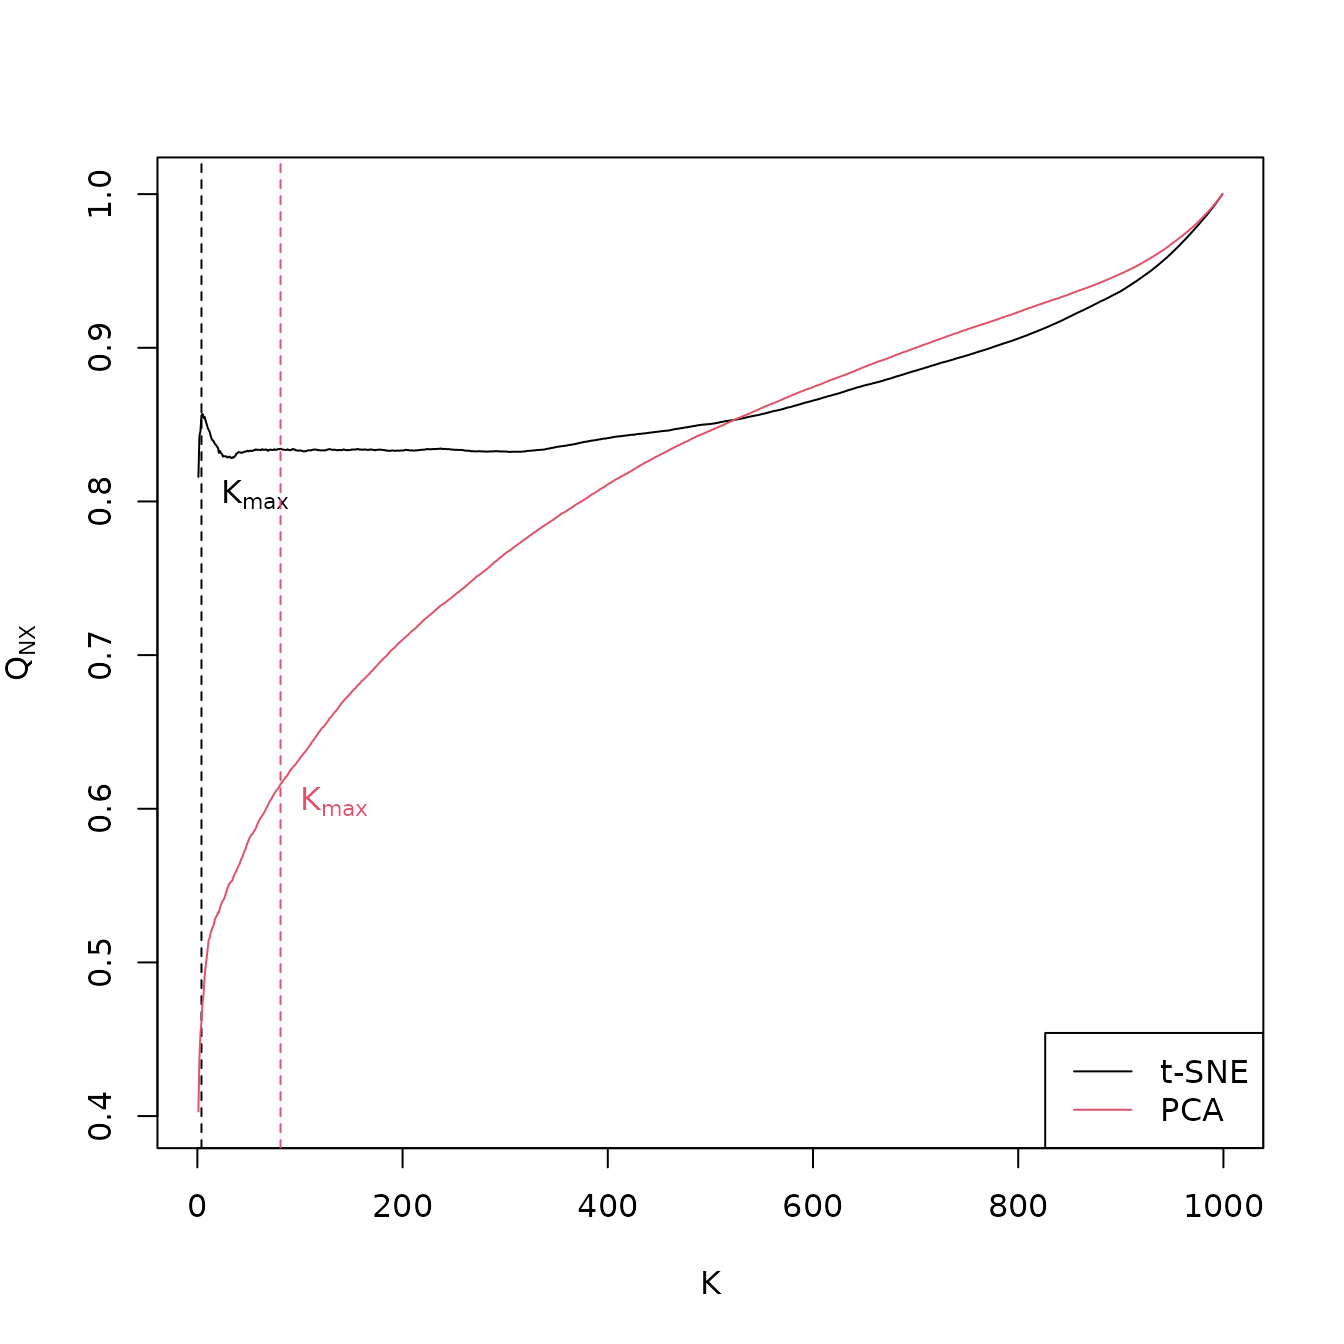
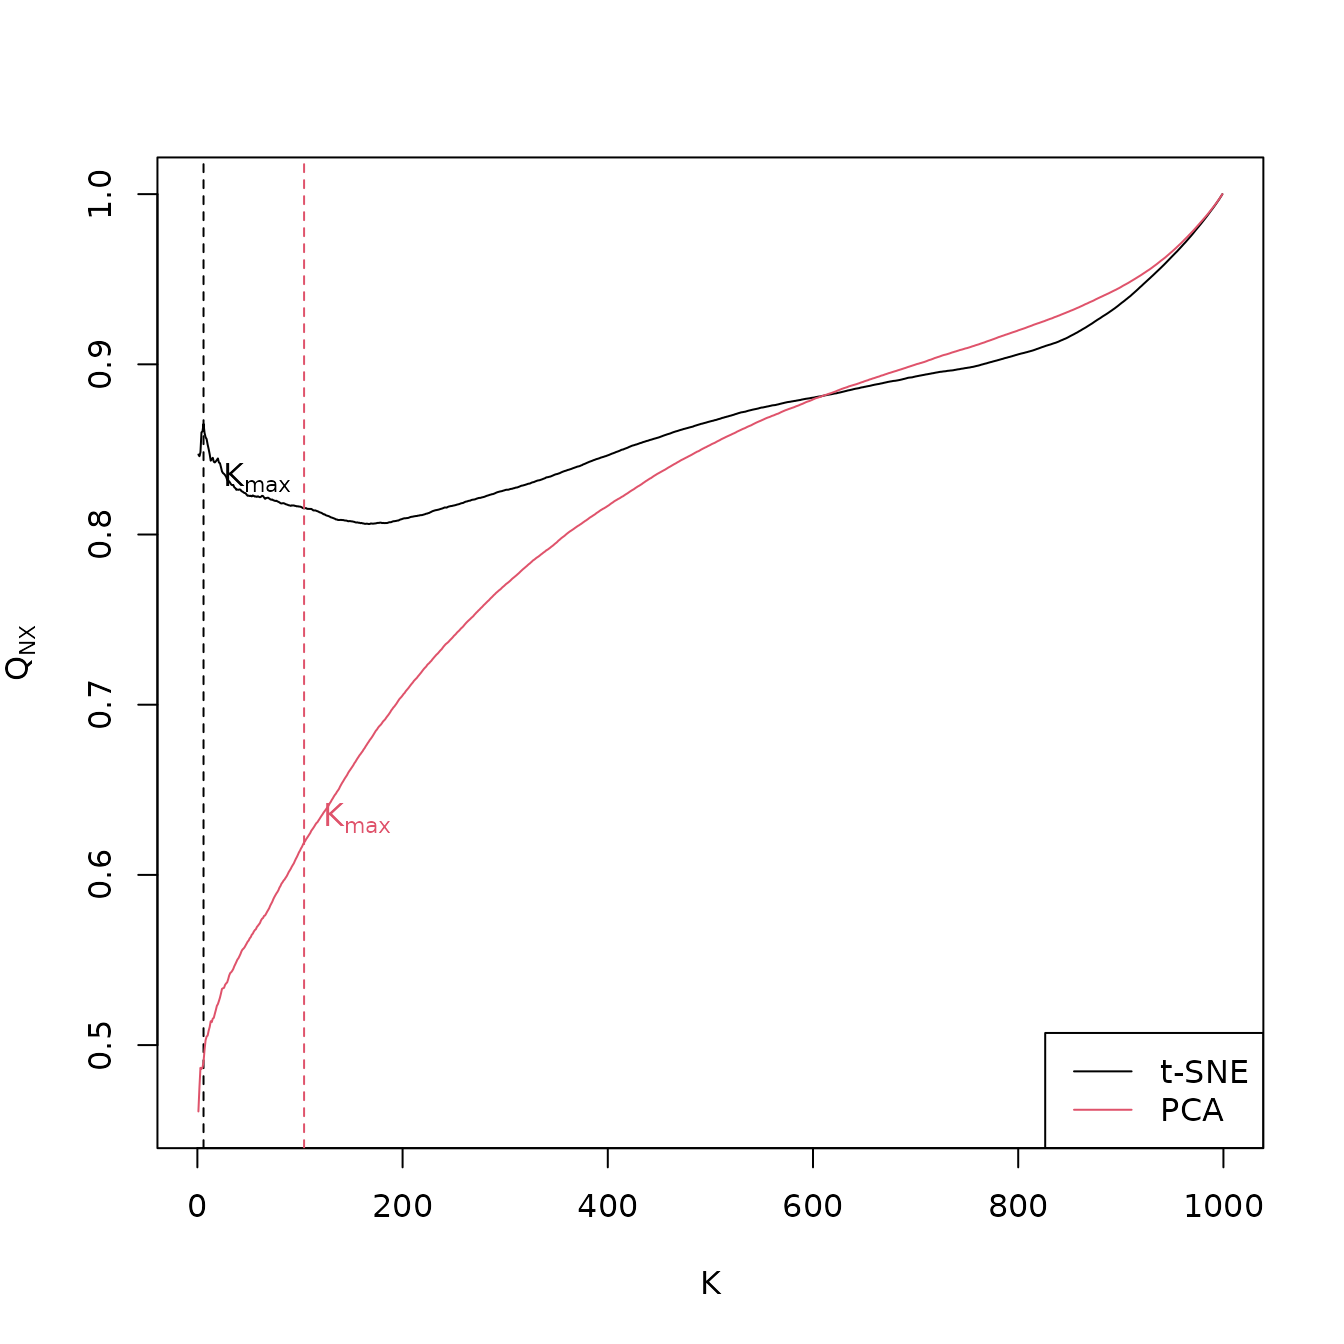
Deploying to gh-pages from @ gdkrmr/coRanking@8ac2b6436e76dd0ff352bda997be4d8cf091266a 🚀

diff --git a/articles/coranking.html b/articles/coranking.html
@@ -162,17 +162,17 @@
 <li>
 <em>t-SNE</em>:
 <ul>
-<li><span class="math inline">\(K_\text{max} = 4\)</span></li>
-<li><span class="math inline">\(Q_\text{local} = 0.8400417\)</span></li>
-<li><span class="math inline">\(Q_\text{global} = 0.8696464\)</span></li>
+<li><span class="math inline">\(K_\text{max} = 6\)</span></li>
+<li><span class="math inline">\(Q_\text{local} = 0.8544889\)</span></li>
+<li><span class="math inline">\(Q_\text{global} = 0.8690942\)</span></li>
 </ul>
 </li>
 <li>
 <em>PCA</em>:
 <ul>
-<li><span class="math inline">\(K_\text{max} = 81\)</span></li>
-<li><span class="math inline">\(Q_\text{local} = 0.5580426\)</span></li>
-<li><span class="math inline">\(Q_\text{global} = 0.8395193\)</span></li>
+<li><span class="math inline">\(K_\text{max} = 104\)</span></li>
+<li><span class="math inline">\(Q_\text{local} = 0.5602207\)</span></li>
+<li><span class="math inline">\(Q_\text{global} = 0.8453257\)</span></li>
 </ul>
 </li>
 </ul>
